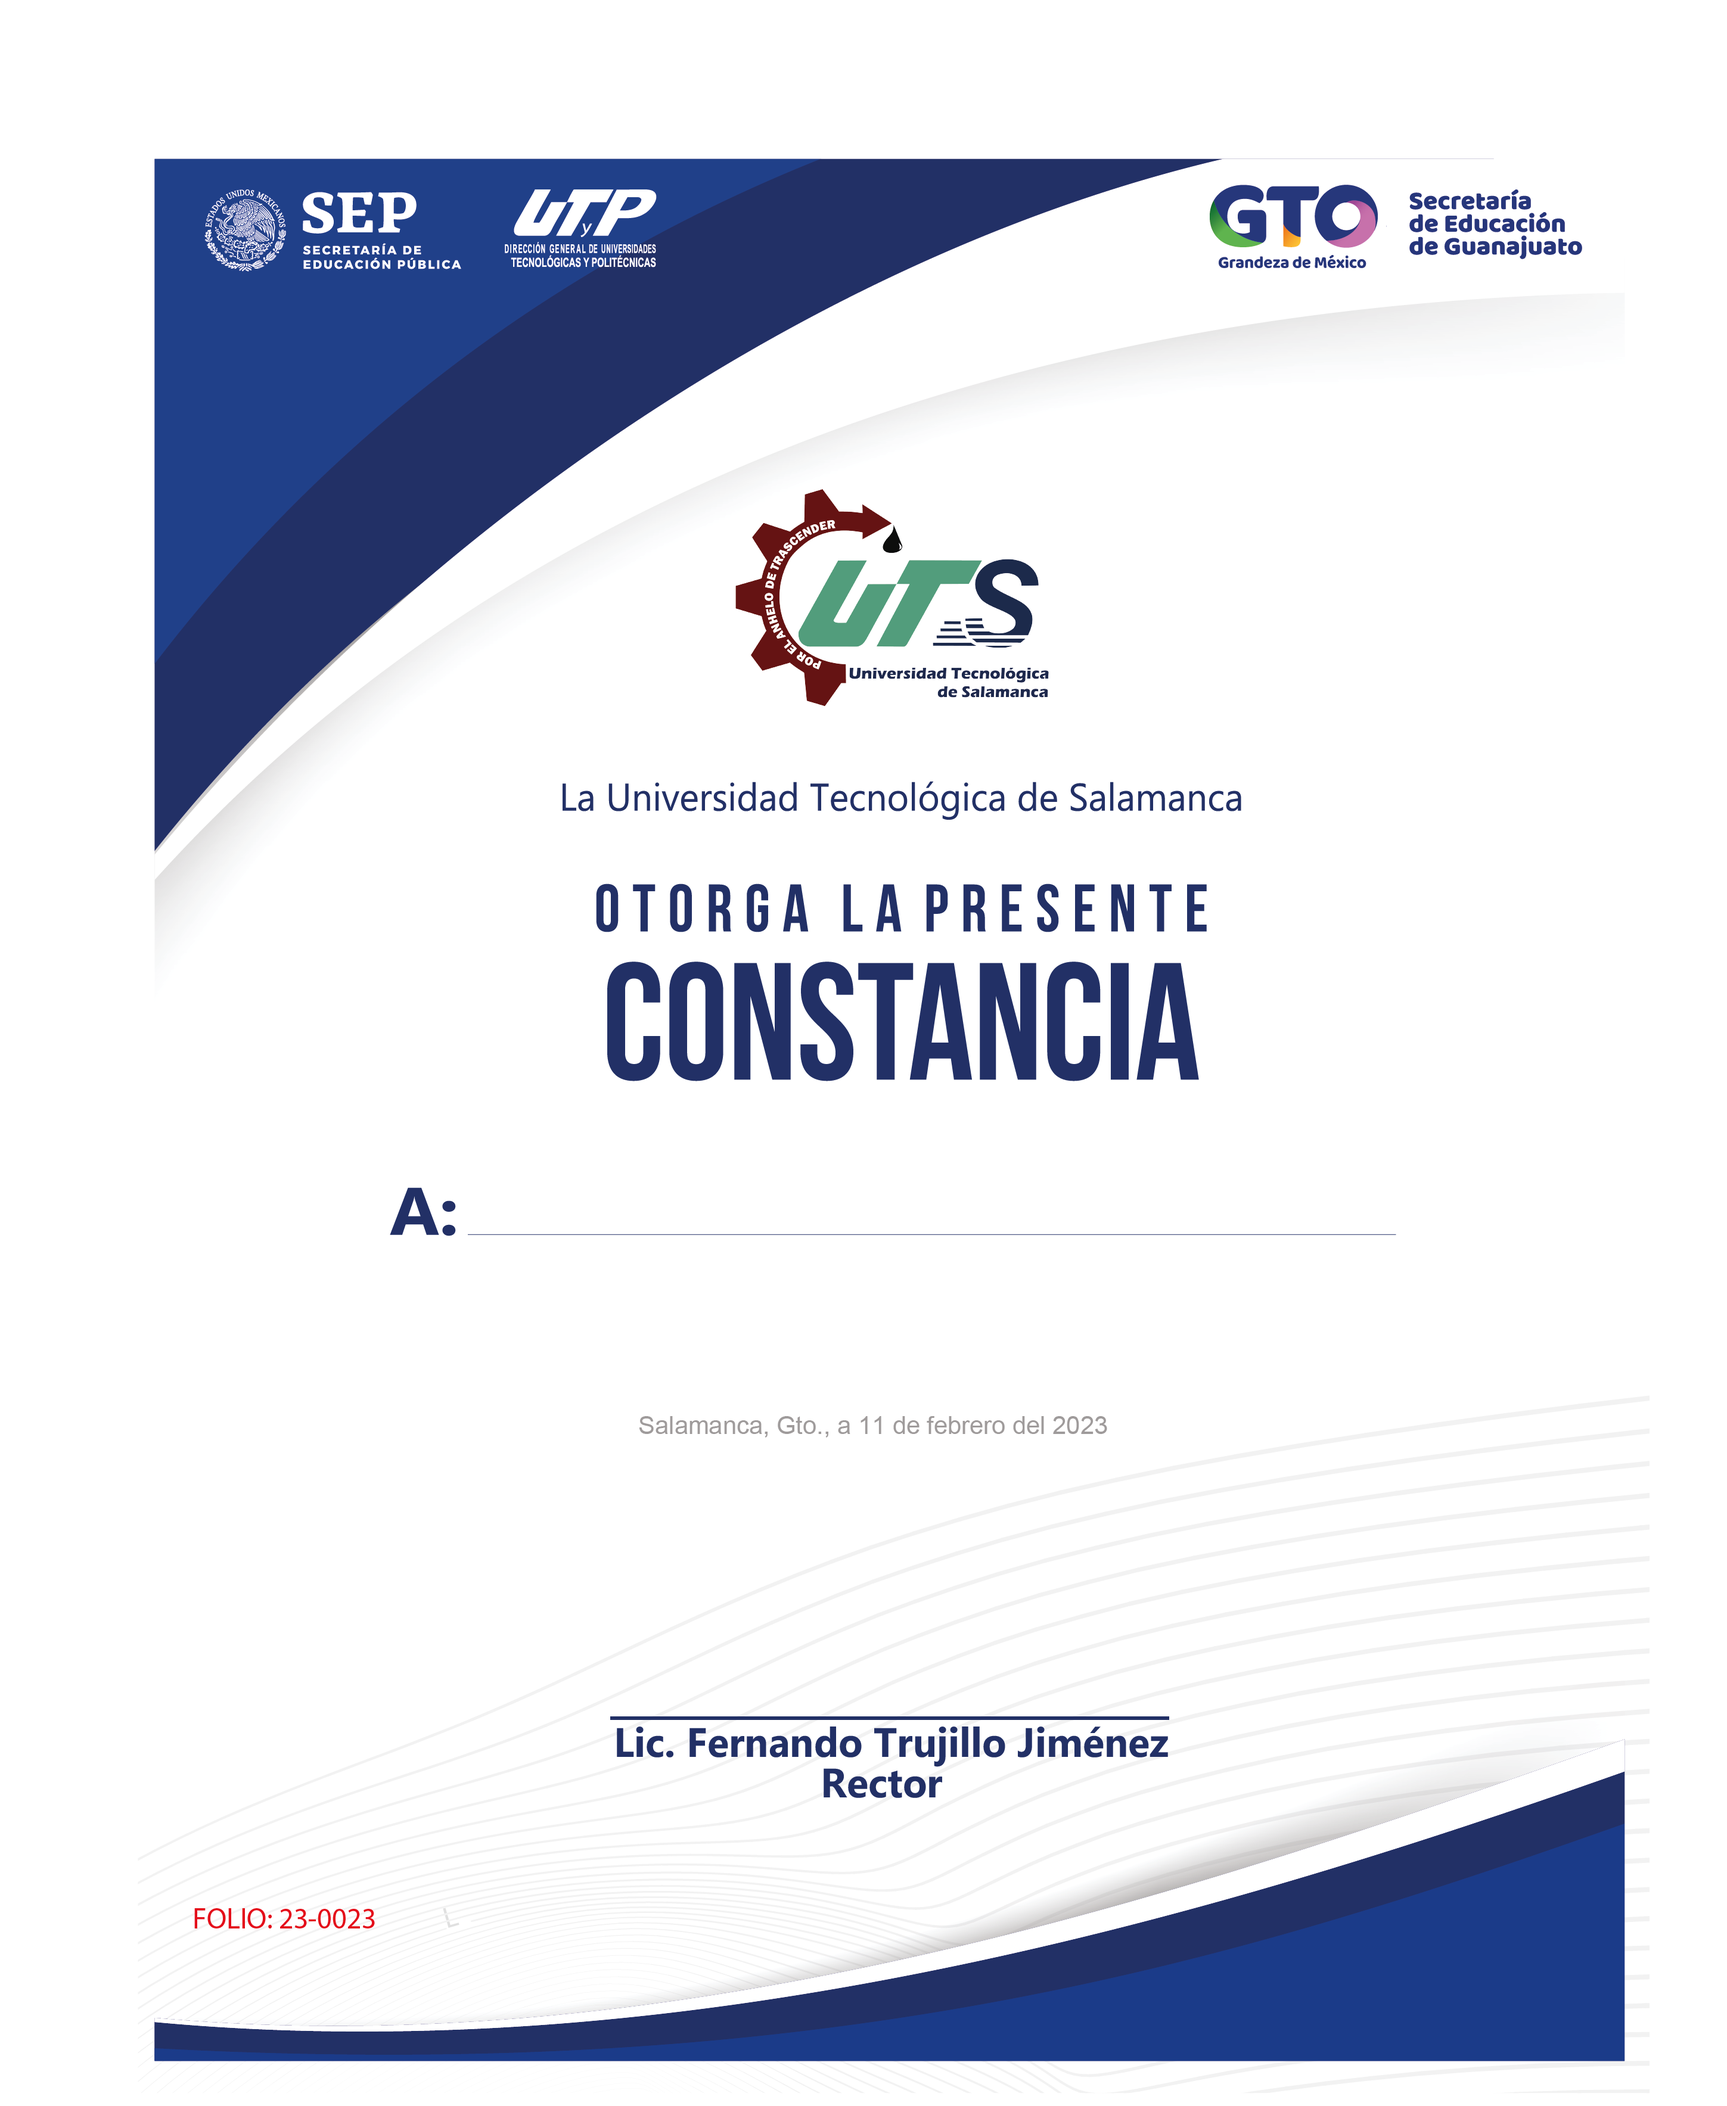
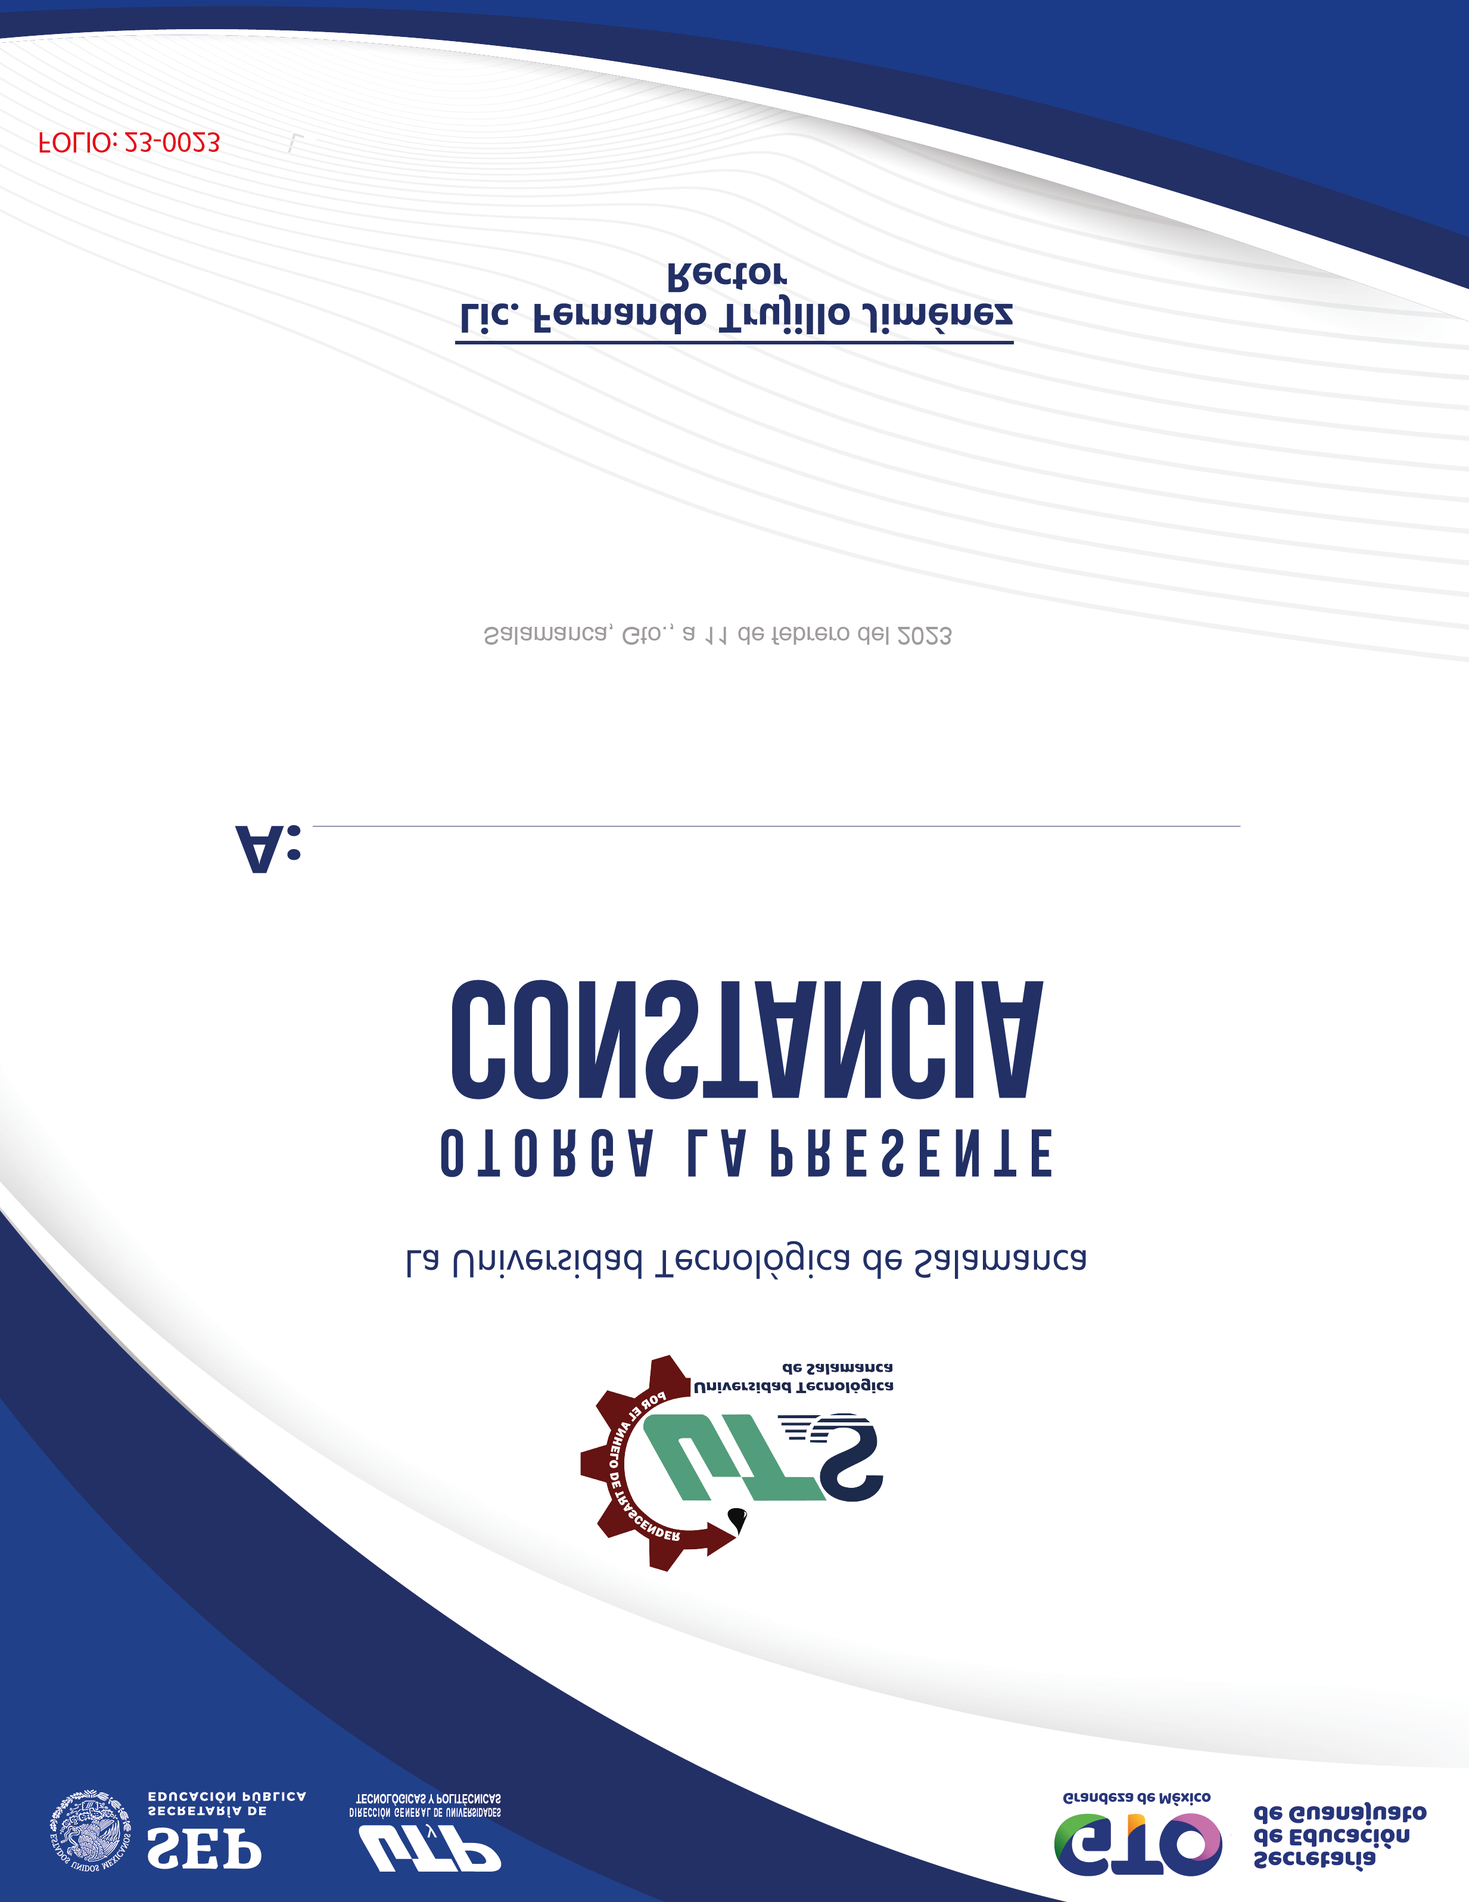
Añadido el fondo al PDF, junto con los campos rellenables de manera dinámica

diff --git a/certificados/views.py b/certificados/views.py
@@ -3,57 +3,98 @@ from django.contrib.auth import login as auth_login, authenticate, logout as aut
 from django.contrib.auth.decorators import login_required
 from django.contrib import messages
 from .forms import LoginForm
+from gestion_escolar.models import CursoAlumno, Periodo
 
-
-from django.http import HttpResponse, FileResponse
-import os
-import io
+from django.http import HttpResponse
 from pathlib import Path
+import os
+from io import BytesIO
 from reportlab.pdfgen import canvas
+from reportlab.lib.pagesizes import letter, landscape
 from reportlab.lib.units import inch
-from reportlab.lib.pagesizes import letter
-from reportlab.lib.utils import ImageReader
+from reportlab.lib.colors import HexColor
 
-# Generar PDF
+def add_background(canvas, image_path):
+    canvas.drawImage(image_path, 0, 0, width=letter[0], height=letter[1], preserveAspectRatio=True, mask='auto')
+
 def pdfgenerator(request):
-    # Create Bytestream buffer
-    buf = io.BytesIO()
-    # Create a canvas
-    c = canvas.Canvas(buf, pagesize=letter, bottomup=0)
+    # Crea un objeto BytesIO para almacenar el PDF generado.
+    buffer = BytesIO()
 
-    # Create a Image object
+    # Crea un objeto canvas de ReportLab para generar el PDF.
+    c = canvas.Canvas(buffer, pagesize=letter)
 
+    # Agrega la imagen de fondo al PDF.
     BASE_DIR = Path(__file__).resolve(strict=True).parent.parent
-    STATIC_ROOT = os.path.join(BASE_DIR, "static/")
+    STATIC_ROOT = os.path.join(BASE_DIR, "media/")
+    bg_path = STATIC_ROOT + "certificados/plantilla-certificado-uts.png"
+    add_background(c, bg_path)
 
-    bg = STATIC_ROOT + "img/template_certi.png"
+    # Obtención de datos
+    alumno = []
+    for obj in CursoAlumno.objects.all():
+        alumno.append(obj.alumno)
+
+    curso = []
+    for obj in CursoAlumno.objects.all():
+        curso.append(obj.curso)
+
+    fecha_termino = []
+    for obj in CursoAlumno.objects.all():
+        fecha_termino.append(obj.periodo.fecha_fin)
 
 
-    # Create a text object
-    textob = c.beginText()
-    textob.setTextOrigin(inch, inch)
-    textob.setFont("Helvetica", 14)
+    # Agrega contenido al PDF.
+    text_nombre = str(alumno)
+    text_subtitulo = str(curso)
+    text_fecha = "Salamanca, Gto., a " + str(fecha_termino) 
+    
+    text_width = c.stringWidth(text_nombre, "Helvetica-Bold", 16)
+    x = (letter[0] - text_width) / 2
+    y = letter[1] / 2.25
 
-    # Add some lines of text
+    # Pasada 1: Nombre del Alumno
+    c.setFont("Helvetica-Bold", 16)
+    c.setFillColor(HexColor('#204089'))
+    c.drawString(x, y, text_nombre)
+
+    # Pasada 2: Motivo de la constancia
     lines = [
-        "Hola",
-        "Mundo",
-        "XD",
+        "Por haber concluido satisfactoriamente el curso " + text_subtitulo,
+        "impartido en las instalaciones de la Universidad Tecnológica de Salamanca."
     ]
+    
+    textob = c.beginText()
 
-    # Loop
+    text_width = c.stringWidth(lines[0], "Helvetica", 14)
+    x = (letter[0] - text_width) / 2
+
+    textob.setTextOrigin(x, (letter[1] / 2.5))
+    textob.setFont("Helvetica", 14)
+    textob.setFillColor(HexColor('#8d8989'))
     for line in lines:
         textob.textLine(line)
+        c.drawText(textob)
+        text_width = c.stringWidth(lines[1], "Helvetica", 14)
+        x = (letter[0] - text_width) / 2
+        textob.setTextOrigin(x, (letter[1] / 2.65))
 
-    # Finish up
-    c.drawInlineImage(bg, 0, 0, width=250, height=500)
-    c.drawText(textob)
+    # Pasada 3: Fecha de Término 
+    text_width = c.stringWidth(text_fecha, "Helvetica", 10)
+    x = (letter[0] - text_width) / 2
+    c.setFont("Helvetica", 10)
+    c.setFillColor(HexColor('#9f9b9b'))
+    c.drawString(x, (letter[1] / 3.04), text_fecha)
+
+    # Finaliza el PDF.
     c.showPage()
     c.save()
-    buf.seek(0)
 
-    # Return
-    return FileResponse(buf, as_attachment=True, filename='prueba.pdf')
+    # Lee los contenidos del BytesIO y devuelve una respuesta HTTP con el PDF generado.
+    buffer.seek(0)
+    response = HttpResponse(buffer, content_type='application/pdf')
+    response['Content-Disposition'] = 'attachment; filename="prueba.pdf"'
+    return response
 
 
  
